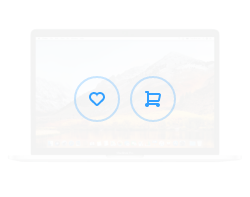
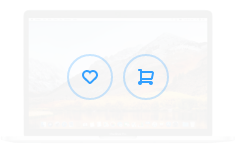
Fixed onMouseEnter & onMouseLeave for thumbnail

Changed region(s): [[0.5339, 0.3399, 0.7415, 0.6536], [0.2669, 0.3399, 0.4746, 0.6536]]

diff --git a/src/components/Thumbnail/Thumbnail.js b/src/components/Thumbnail/Thumbnail.js
@@ -12,36 +12,34 @@ class Thumbnail extends React.Component {
         let classList = ''
         let types = props.type
         let label = props.label
+        let src = thumbMac
         this.state = {
             classList,
             types,
-            label
+            label,
+            src,
         }
-        this.handleEnter = this.handleEnter.bind(this)
-        this.handleLeave = this.handleLeave.bind(this)
     }
-
-    handleEnter() {
-        return (
-            <img src={ hoverMac } onMouseLeave={ this.handleLeave }/>
-        )
+    hoverHandler = () => {
+        this.setState({ src: hoverMac })
     }
-
-    handleLeave() {
-        return (
-            <img src={ thumbMac } onMouseLeave={ this.handleEnter }/>
-        )
+    exitHandler = () => {
+        this.setState({ src: thumbMac })
     }
-
     render() {
         return (
-          <div className={ this.state.types }>
-               <img src={ thumbMac } onMouseEnter={ this.handleEnter }/>
-               <Divider />
-               { this.state.label }
-               <Stars />
-               <Price />
-          </div>  
+            <div className={ this.state.types }>
+                <img
+                    className="thumb"
+                    src={ this.state.src }
+                    onMouseEnter={ this.hoverHandler }
+                    onMouseLeave={ this.exitHandler }
+                />
+                <Divider />
+                { this.state.label }
+                <Stars />
+                <Price />
+            </div>  
         ) 
     }
 }

diff --git a/src/components/Forms/Form.js b/src/components/Forms/Form.js
@@ -111,6 +111,13 @@ class Form extends React.Component {
                      </select> )
         }
         if (this.props.display == 'redeemer') {
+            if (this.props.large) {
+                this.state.classList += ` -large`
+                return ( <form className={this.props.type}>
+                        <input className={ this.state.display } placeholder={ this.props.label }/>
+                        <button className={ this.state.display }><span>{ this.props.span }</span></button>
+                     </form>)
+            }
             return ( <form className={this.props.type}>
                         <input className={ this.state.display } placeholder={ this.props.label }/>
                         <button className={ this.state.display }><span>{ this.props.span }</span></button>

diff --git a/src/components/Forms/Form.css b/src/components/Forms/Form.css
@@ -97,19 +97,25 @@ input.form-large::placeholder {
     font-size: 16px;
 }
 
-.redeem {
-    display: flex;
-    flex-direction: row;
-    border: 2px;
+input.redeemer-large {
+    width: 300px;
+    height: 46px;
+}
+
+input.redeemer {
+    width: 120px;
+    height: 26px;
+    font-size: 16px;
+    background-color: white;
+    margin-right: -110px;
+    color: #262626;
 }
 
 .redeemer {
-    border-top-left-radius: 4px;
-    border-bottom-left-radius: 4px;
-    border-top
-}
-
-button.redeemer {
-    background: blue;
-
+    font-size: 14px;
+    border-top-left-radius: 0px;
+    border-bottom-left-radius: 0px;
+    border-top-right-radius: 4px;
+    border-bottom-right-radius: 4px;
+    background-color: #33A0FF;
 }

diff --git a/src/components/Forms/Form.stories.js b/src/components/Forms/Form.stories.js
@@ -74,6 +74,13 @@ storiesOf('Form', module)
         display='redeemer'
         span='Redeem'
     />)
+    .add('Redeem Large', () => <Form
+        label='Voucher code'
+        type='redeem'
+        display='redeemer'
+        span='Redeem'
+        large
+    />)
     .add('Checkbox', () => <Form
         type='check'
         display='checkbox'

diff --git a/src/components/Thumbnail/Thumbnail.css b/src/components/Thumbnail/Thumbnail.css
@@ -9,4 +9,3 @@
     border-radius: 4px;
     font-size: 14px;
 }
-
